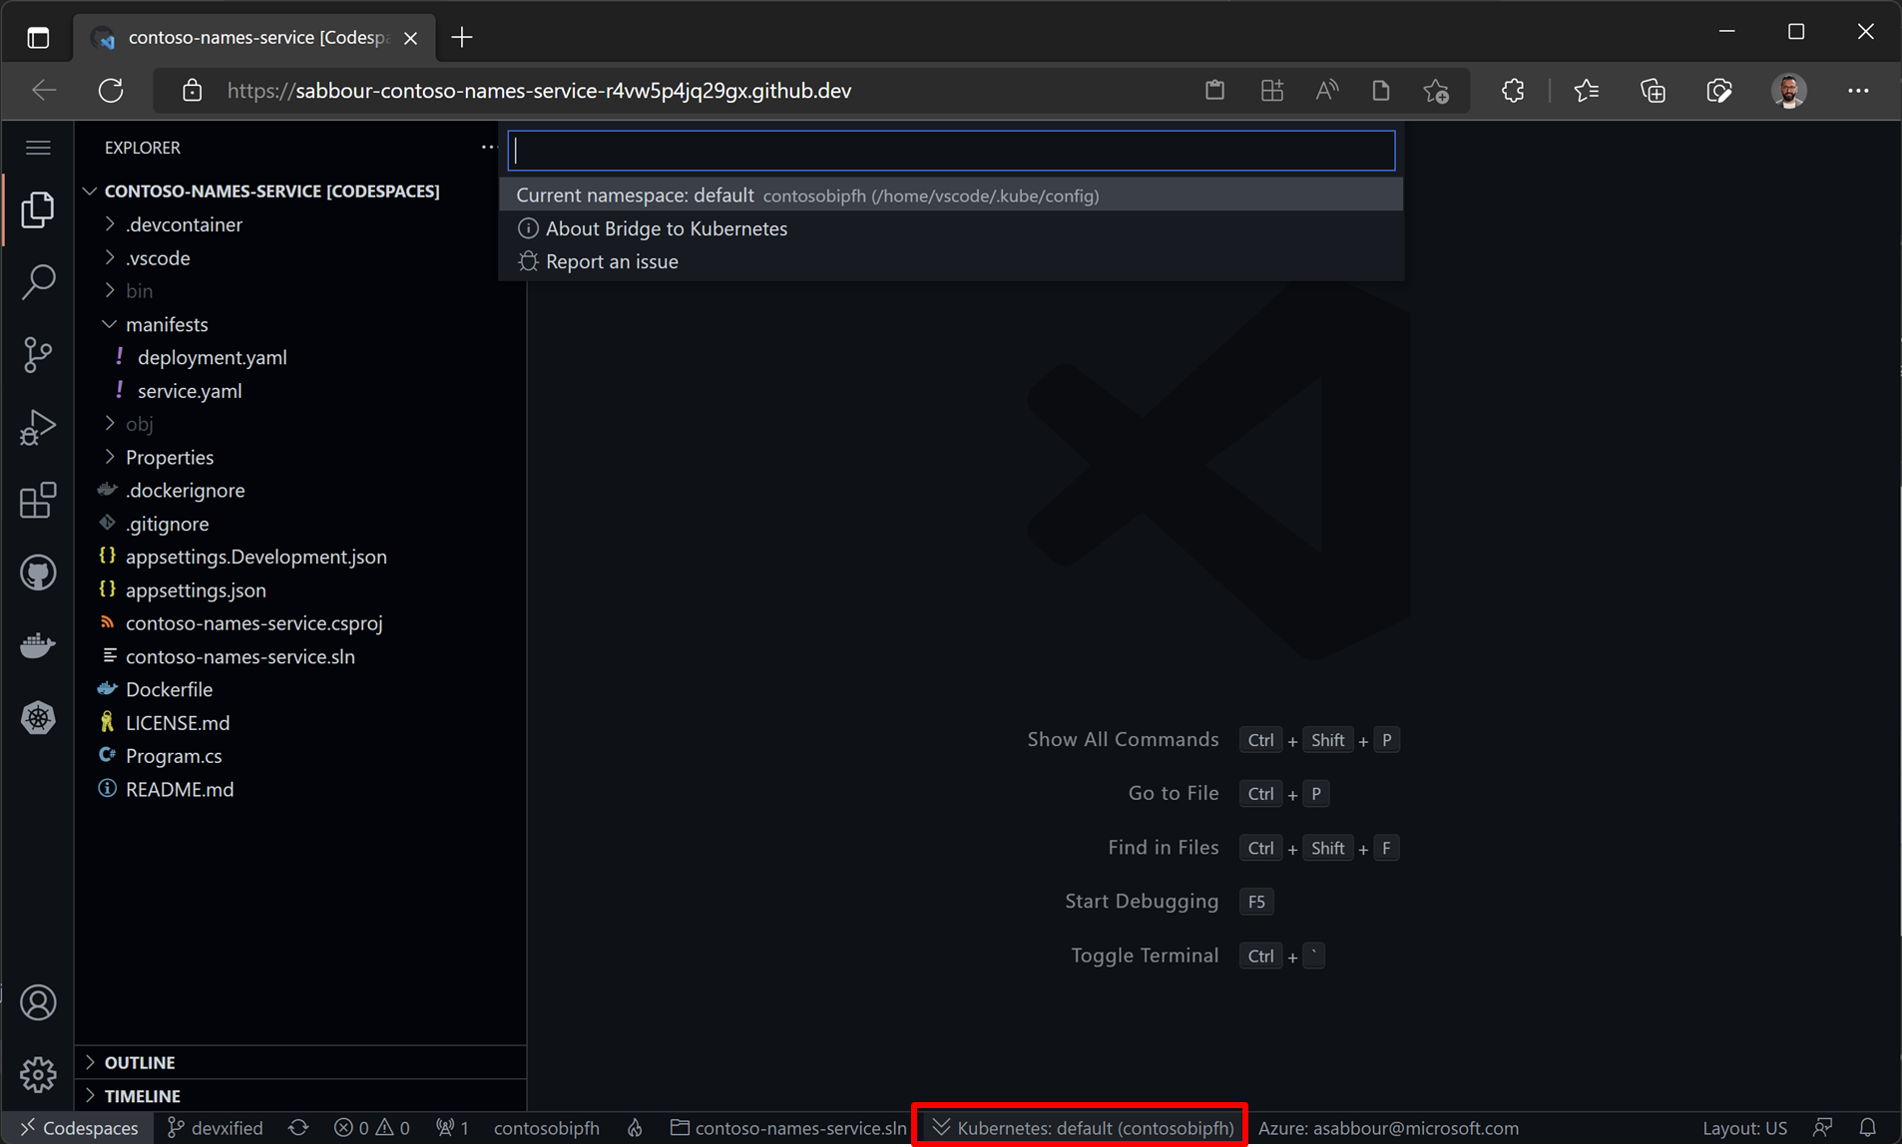
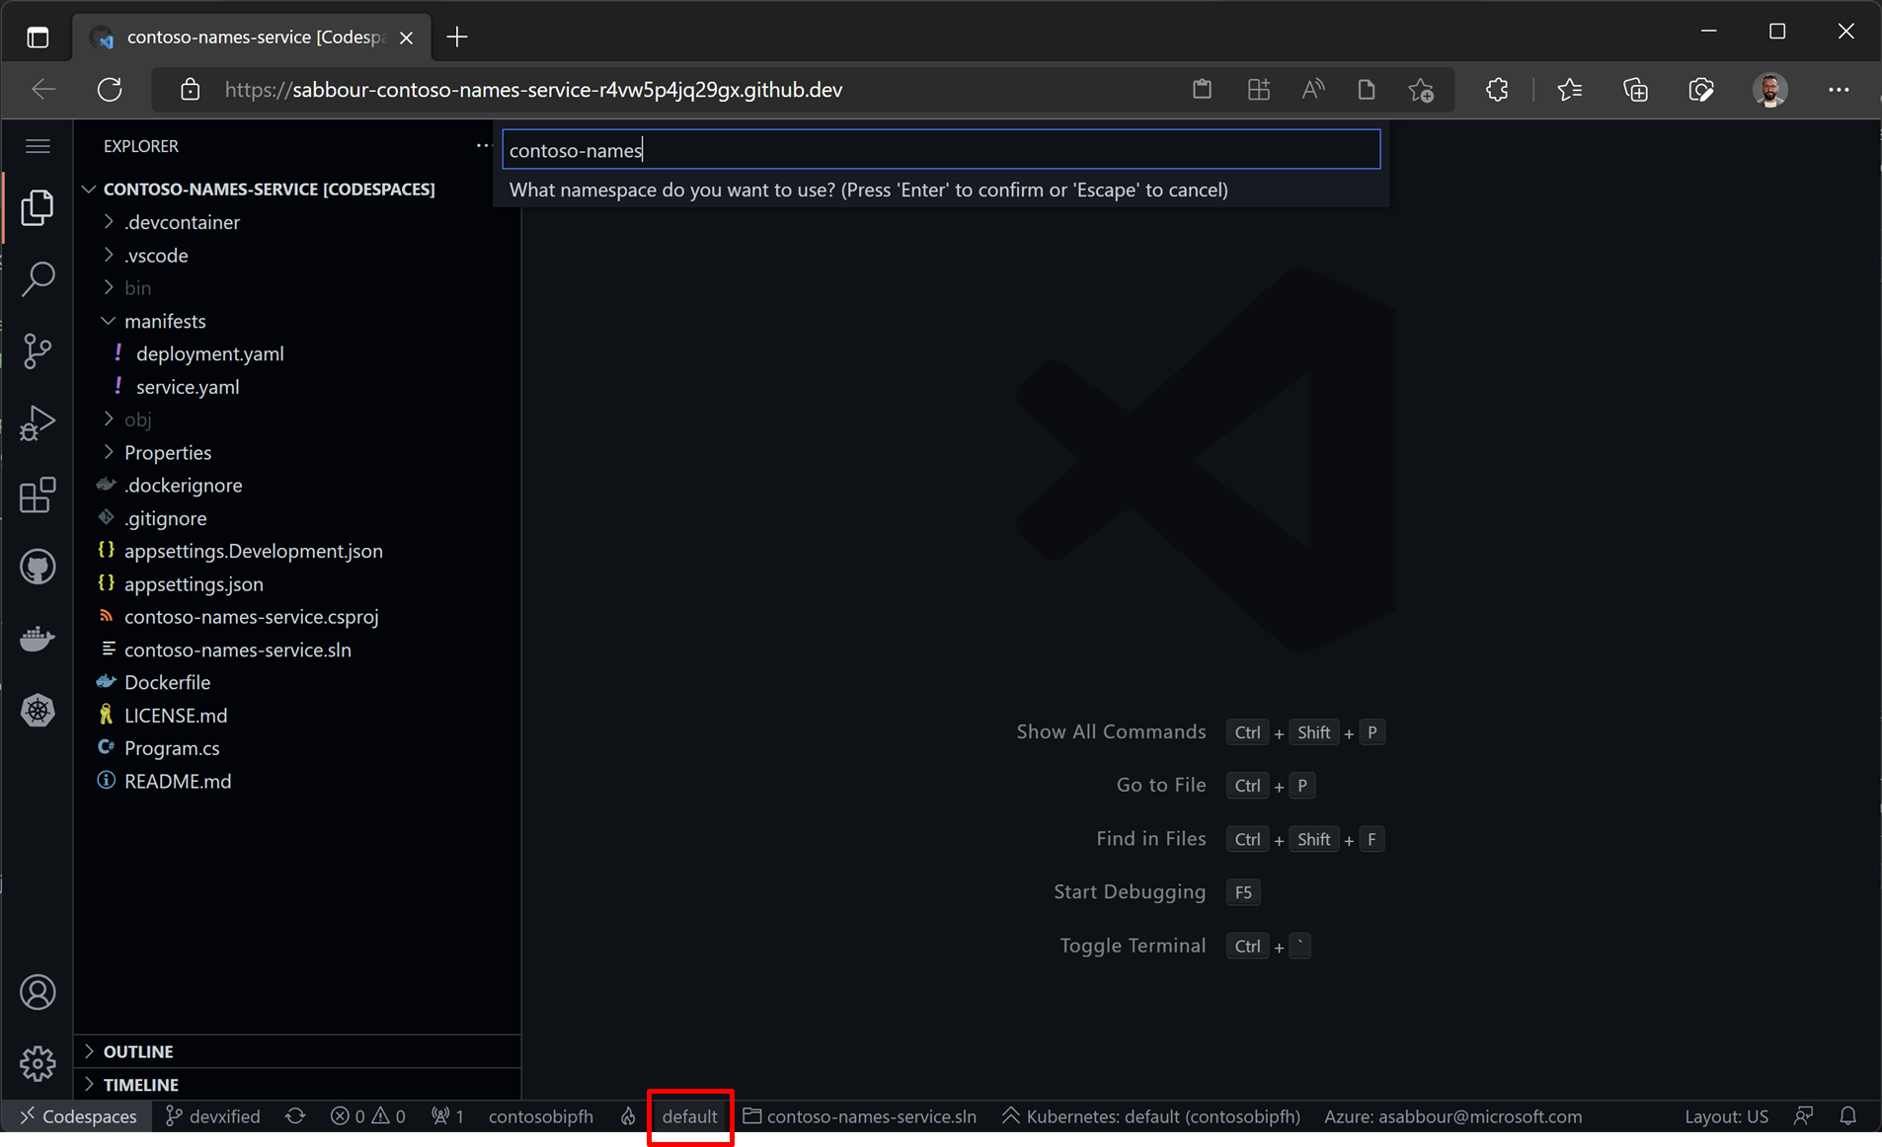
Added Bridge docs

diff --git a/README.md b/README.md
@@ -150,6 +150,37 @@ Using the frontend app's service IP, open that in the browser again and you shou
 
 To debug where is this repetition in the generated name is coming from, you will use Bridge to Kubernetes to attach a debugger to the deployed application on the Kubernetes cluster. Note that you should only do this on a non-production deployment. Since this is the team's AKS development cluster, you should be ok here.
 
+To use the Bridge to Kubernetes extension, you need to switch your Kubernetes cluster context to use the namespace which contains the service you want to debug. Click on **default** in the bottom tabs and type in `contoso-names` in the command palette that will popup.
+
+![Configure namespace](img/bridge-configure-namespace.png)
+
+Launch the command palette again and run the `Bridge to Kubernetes: Configure` command.
+
+![Bridge to Kubernetes configure command](img/bridge-configure-command.png)
+
+Provide the following inputs to the command:
+- **Service to redirect:** `contoso-names-service`.
+- **Local port:** 8080
+- **Launch configuration:**  Choose the `.NET Core Launch (web)` configuration
+- **Isolation:** Choose **No** to not isolate the traffic of your local version of the service from other developers on the cluster.
+
+The extension will create a new launch configuration called **.NET Core Launch (web) with Kubernetes**. Make sure to switch to that configuration.
+
+![Select the Bridge to Kubernetes launch configuration](img/bridge-launch-config.png)
+
+Place a breakpoint in **Program.cs** and hit `F5` to run the service in the codespace with the Bridge to Kubernetes debug launch configuration. Refresh the frontend app and you should see your breakpoint being hit.
+
+![Bridge to Kubernetes breakpoint hit](img/bridge-breakpoint.png)
+
+You realize that you are referring to the *adjective* twice in the returned string. You stop the debugger and quickly fix that bug by referring to the *noun* the second time.
+
+![Codefix](img/bridge-codefix.png)
+
+You hit `F5` one more time to run your code that you just edited in GitHub Codespaces in the AKS cluster. Note that you didn't have to rebuild a Docker container, push it to a registry, or mess around with YAML files. You quickly see that your change fixes the problem.
+
+![Working application](img/namesapp-working.png)
+
+You are now ready to commit this bug fix.
 
 ### Create a GitHub Actions workflow
 
